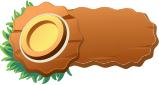
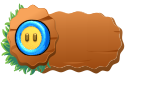
se implementa contador de monedas. se cambia estetica del png (cartel)

diff --git a/TP4/entregafinal/pages/play_game2.js b/TP4/entregafinal/pages/play_game2.js
@@ -10,6 +10,8 @@ export default function Play_Game2(){
 
     const [gameOver, setGameOver] = useState(false); 
     const [personaje, setPersonaje] = useState(null);
+/*     const [points, setPoints] = useState(0); */
+
     let salto;
 
     function jump(){
@@ -45,7 +47,13 @@ export default function Play_Game2(){
         const char = document.getElementById("char"); 
         const mob1 = document.getElementById("mob1");
         const coin = document.getElementById("coin");
+        const point_counter  = document.getElementById("coins_counter");
         
+        let timeInterval = setInterval(() => {
+            if (point_counter != null && fin == false)
+                point_counter.innerHTML = `${points}`;
+            }, 800);
+            
          //EVENTOS DE TECLA --  por ej BARRA ESPACIADORA PARA SALTAR// 
    
         if (personaje != null && fin == false) {
@@ -104,18 +112,21 @@ export default function Play_Game2(){
                 setTimeout(detener_fondo, 1200);
                 setTimeout(mostrar_cartel_loose,1200);  
                 clearInterval(interval);
+                
             } 
             if (coin.offsetLeft <= char_right && coin.offsetLeft >= char.offsetLeft && salto == true && coin_bottom > char.offsetTop){
                 coin.style.left = '800px';
-                points++;
+                /* setPoints(points+1); */
+                points ++;
+                
                 if (points == 10) {
                     fin=true;
                     setTimeout(mostrar_cartel_win,800);
                     setTimeout(detener_fondo, 800);
-                    clearInterval(interval);
+                    clearInterval(interval);                    
                     mob1.style.left = '800px';
                 }
-                console.log(points);
+                
             }
             if (parseInt(mob1.style.left) + mob1.clientWidth <= 0) {
                 //mob1.style.left = (parseInt(Math.random() * 100) + 800) + 'px';
@@ -151,12 +162,9 @@ return(
 
             {/* <a href=""><div id="go_back"></div></a> */}
 
-            <div id="coins_counter"></div>
-            
-            <div id="char" className="char"></div>
-            
-            <div id="mob1" className="mob1_run"></div>
-            
+            <div id="coins_counter">0</div>            
+            <div id="char" className="char"></div>            
+            <div id="mob1" className="mob1_run"></div>         
             
             {/* <div id="coin_despl_X">
                 <div id="coin" className="coin"></div>
@@ -381,27 +389,14 @@ return(
         z-index: 12;
         left: 620px;
         top: 20px;
-    }
-    
-    p{
-        margin: 0;
-    }
-    /*contador numerico creado desde JS*/
-    
-    #coin_counter{   
         color: #fff; 
         font-size: 35px;   
-        textAlign: center; 
-        width: 70px;
-        height: 70px;
-        position: absolute;    
-        z-index: 13;
-        left: 700px;
-        top: 35px;
         font-family: Arial, Helvetica, sans-serif;
-    }
-    
-    
+        display: flex;
+        justify-content : center;
+        align-items: center;              
+    }  
+
     #go_back{    
         width: 71px;
         height: 78px;
